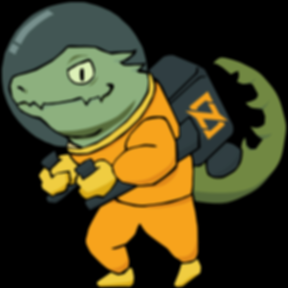
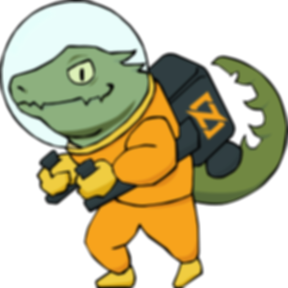
feat: upgrade convolve

diff --git a/lib/convolution/convolve.go b/lib/convolution/convolve.go
@@ -19,6 +19,8 @@ func Convolve(img image.Image, kernel [][]float64) image.Image {
 	for y := bounds.Min.Y; y < bounds.Max.Y; y++ {
 		for x := bounds.Min.X; x < bounds.Max.X; x++ {
 			var rSum, gSum, bSum float64
+			var alphaSum float64
+			var kernelSum float64
 
 			for ky := 0; ky < kernelHeight; ky++ {
 				for kx := 0; kx < kernelWidth; kx++ {
@@ -26,11 +28,14 @@ func Convolve(img image.Image, kernel [][]float64) image.Image {
 					iy := y + ky - kernelOffsetY
 
 					if ix >= bounds.Min.X && ix < bounds.Max.X && iy >= bounds.Min.Y && iy < bounds.Max.Y {
-						r, g, b, _ := img.At(ix, iy).RGBA()
-						rSum += float64(r>>8) * kernel[ky][kx]
-						gSum += float64(g>>8) * kernel[ky][kx]
-						bSum += float64(b>>8) * kernel[ky][kx]
+						r, g, b, a := img.At(ix, iy).RGBA()
+						weight := kernel[ky][kx]
 
+						rSum += float64(r>>8) * weight
+						gSum += float64(g>>8) * weight
+						bSum += float64(b>>8) * weight
+						alphaSum += float64(a>>8) * weight
+						kernelSum += weight
 					}
 				}
 			}
@@ -38,8 +43,14 @@ func Convolve(img image.Image, kernel [][]float64) image.Image {
 			r := uint8(utils.Clamp(rSum, 0, 255))
 			g := uint8(utils.Clamp(gSum, 0, 255))
 			b := uint8(utils.Clamp(bSum, 0, 255))
+			var a uint8
+			if kernelSum != 0 {
+				a = uint8(utils.Clamp(alphaSum/kernelSum, 0, 255))
+			} else {
+				a = 255
+			}
 
-			convImg.Set(x, y, color.RGBA{R: r, G: g, B: b, A: 255})
+			convImg.Set(x, y, color.RGBA{R: r, G: g, B: b, A: a})
 		}
 	}
 

diff --git a/lib/intensity/sharpening.go b/lib/intensity/sharpening.go
@@ -9,37 +9,6 @@ import (
 )
 
 func Sharpening(img image.Image, kernel [][]float64) image.Image {
-	lapImage := convolution.Convolve(img, kernel)
-
-	bounds := img.Bounds()
-	sharpenedImg := image.NewRGBA(bounds)
-
-	for y := bounds.Min.Y; y < bounds.Max.Y; y++ {
-		for x := bounds.Min.X; x < bounds.Max.X; x++ {
-			originalColor := img.At(x, y)
-			lapColor := lapImage.At(x, y)
-
-			origR, origG, origB, origA := originalColor.RGBA()
-			lapR, lapG, lapB, lapA := lapColor.RGBA()
-
-			newR := utils.Clamp(float64(origR>>8)-float64(lapR>>8), 0, 255)
-			newG := utils.Clamp(float64(origG>>8)-float64(lapG>>8), 0, 255)
-			newB := utils.Clamp(float64(origB>>8)-float64(lapB>>8), 0, 255)
-			_ = utils.Clamp(float64(origA>>8)-float64(lapA>>8), 0, 255)
-
-			sharpenedImg.Set(x, y, color.RGBA{
-				R: uint8(newR),
-				G: uint8(newG),
-				B: uint8(newB),
-				A: uint8(origA >> 8),
-			})
-		}
-	}
-
-	return sharpenedImg
-}
-
-func Sharpening2(img image.Image, kernel [][]float64) image.Image {
 	bounds := img.Bounds()
 	width, height := bounds.Dx(), bounds.Dy()
 

diff --git a/lib/zoom/zoom.go b/lib/zoom/zoom.go
@@ -75,5 +75,5 @@ func ApplyHighBoost(img image.Image, k float64, smoothKernel [][]float64) image.
 }
 
 func ApplySharpening(img image.Image, kernelSize uint) image.Image {
-	return intensity.Sharpening2(img, kernel.Laplacian(kernelSize))
+	return intensity.Sharpening(img, kernel.Laplacian(kernelSize))
 }
